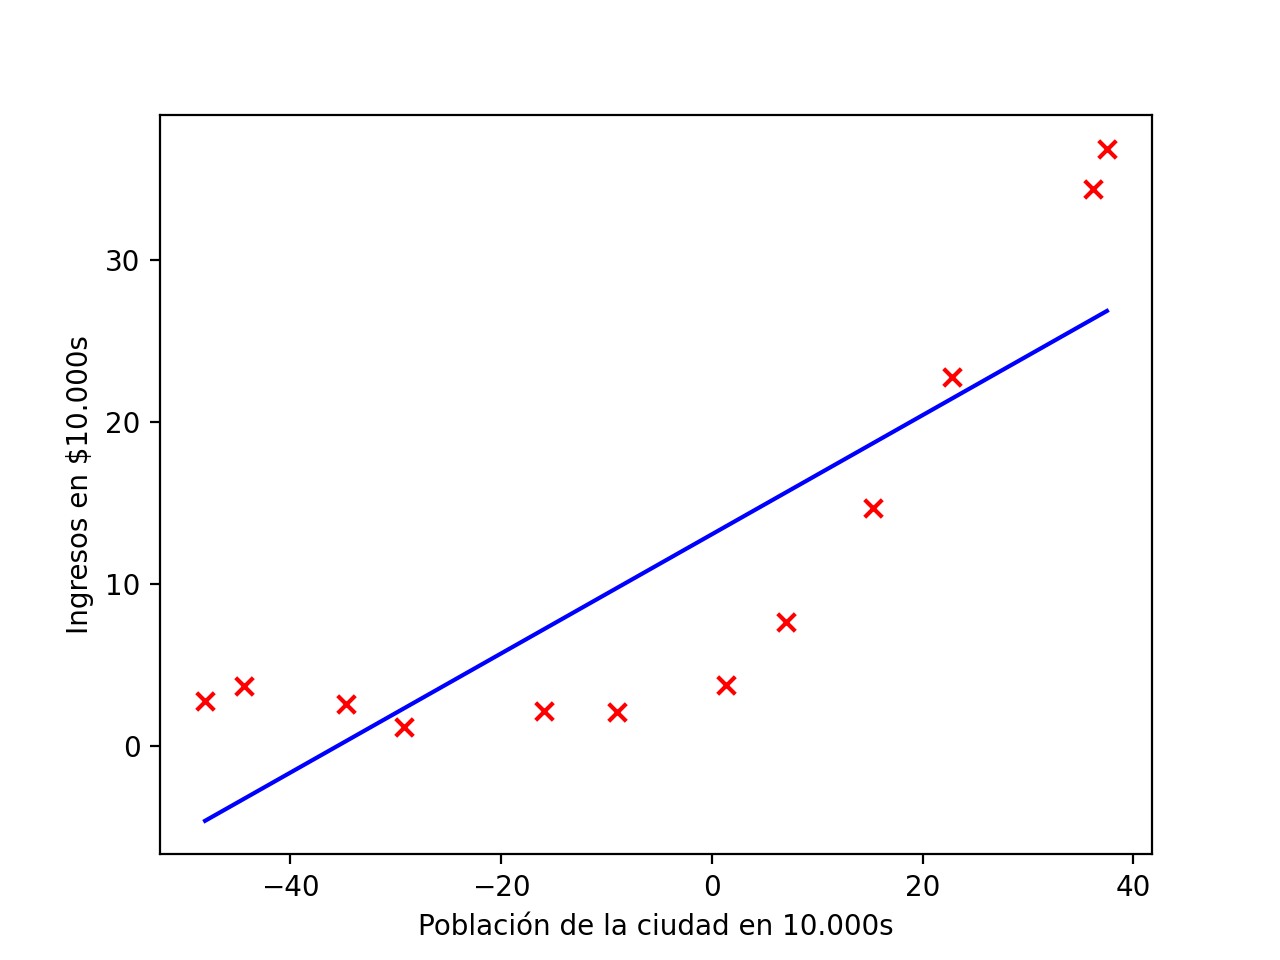
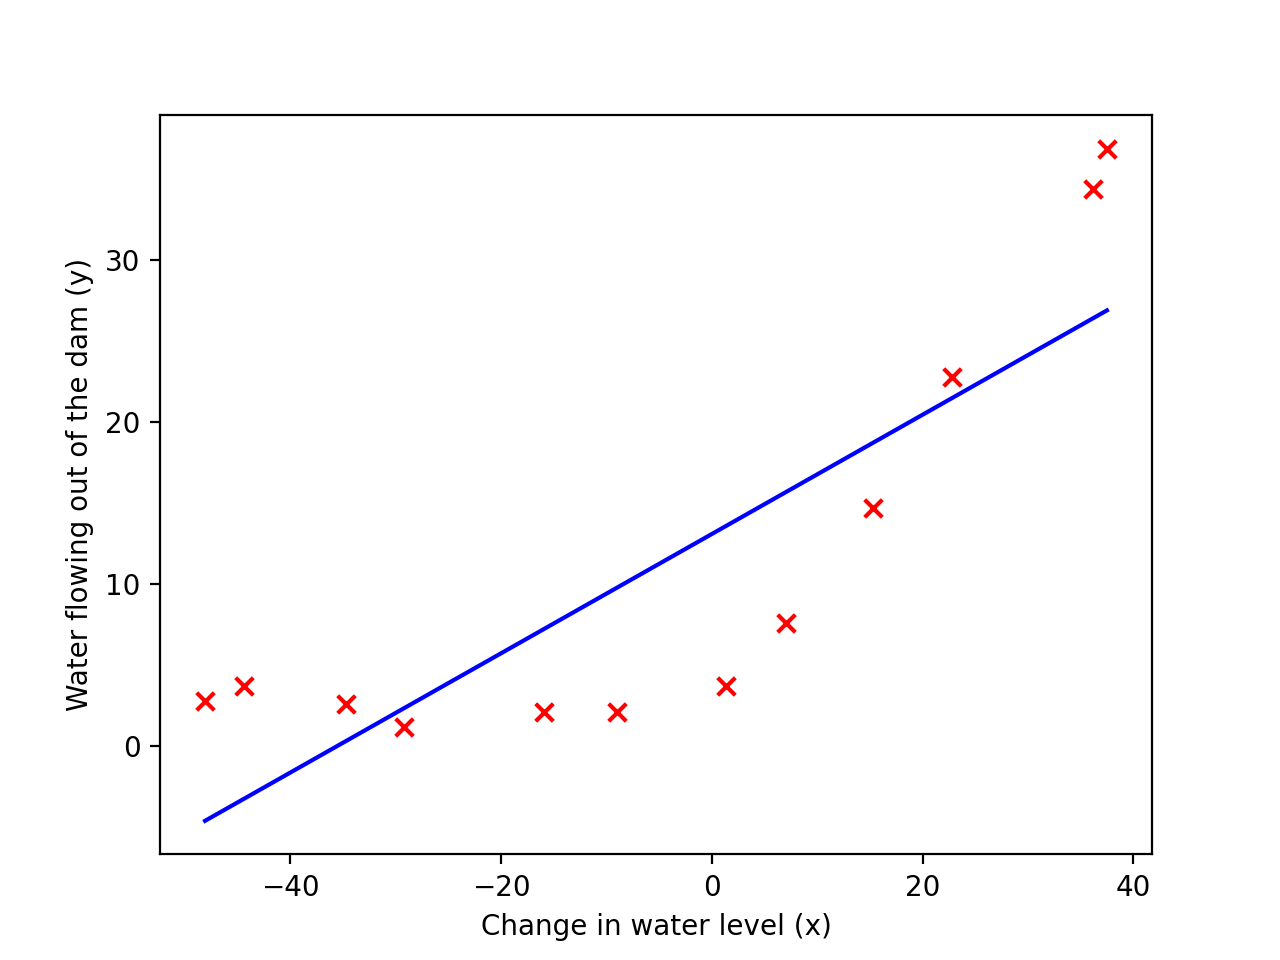
Pr 5

Changed region(s): [[0.3125, 0.9375, 0.6875, 1.0], [0.0312, 0.3438, 0.0938, 0.5625], [0.0312, 0.5625, 0.0938, 0.75]]

diff --git a/Práctica 5/Pr5M.py b/Práctica 5/Pr5M.py
@@ -20,6 +20,7 @@ def cost_reg(Theta, XX, Y, Landa):
     dif = np.sum((Theta.dot(XX.T) - Y)**2)
     cost = (1 / 2 * len(XX)) * dif 
     return cost
+
 def error(Theta,XX,y,landa):   
     H = np.dot(XX, Theta)
     aux = (H - y) ** 2
@@ -28,28 +29,23 @@ def error(Theta,XX,y,landa):
 
 def add_features(X, p):
     for i in range(2,p+1):
-       x1 = X[:,1]**i 
-       X = np.hstack((X, np.reshape(x1,(x1.shape[0],1))))
+        x1 = X[:,1]**i 
+        X = np.hstack((X, np.reshape(x1,(x1.shape[0],1))))
     return X
 
 def normalize(X):
-    X_norm = np.zeros_like(X)
-    X_norm[:,0] = X[:,0]
-    for i in range(1,X.shape[1]):
-        mu = np.mean(X[:,i])
-        sigma = np.std(X[:,i])
-        data = (X[:,i]-mu) / sigma
-        X_norm[:,i] = data
-    return X_norm, mu, sigma
+    Mu = np.mean(X[:,1:], axis=0)
+    Sigma = np.std(X[:,1:],axis=0)
+    X_norm = (X[:,1:] - Mu) / Sigma
+    X_norm = np.hstack((np.ones((len(X), 1)), X_norm))
+
+    return [X_norm, Mu, Sigma]
 
 def normalize_val_or_test(X,mu,sigma):
-    X_norm = np.zeros_like(X)
-    X_norm[:,0] = X[:,0]
-    for i in range(1,X.shape[1]):
-        data = (X[:,i]-mu) / sigma
-        X_norm[:,i] = data
-
+    X_norm = (X[:,1:] - mu) / sigma
+    X_norm = np.hstack((np.ones((len(X), 1)), X_norm))
     return X_norm
+
 def show_graph(X, Y, Theta, name='graph'):
 
     X_l = [np.amin(X), np.amax(X)]
@@ -63,24 +59,18 @@ def show_graph(X, Y, Theta, name='graph'):
     plt.savefig('Práctica 5/Recursos/{}.png'.format(name), dpi=200)
 
 
-def show_graph_normalized(X, Y, theta, mu , sigma, name = 'graph_normalized'):
+def show_graph_normalized(X, Y,X_norm,theta, name = 'graph_normalized'):
 
-    x_pts = np.linspace(-60, 40, 12)
-    y_pts = theta[0] * np.ones(12)
-    for i in range(1,9):
-        y_pts += theta[i] * (x_pts**i - mu[i-1]) / sigma[i-1]
-
+    Y_l = X_norm*theta
 
     plt.figure()
-    plt.plot(X[1], Y, 'rx', ms=8)
-    plt.plot(x_pts, y_pts, 'b--')
-    plt.xlim(-60,50)
-    plt.ylim(-10,60)
+    plt.scatter(X.T[1], Y, c='r', marker='x', s=40)
+    #plt.plot(X, Y_l, c='b')
     plt.xlabel('Change in water level (x)')
     plt.ylabel('Water flowing out of the dam (y)')
     plt.savefig('Práctica 5/Recursos/{}.png'.format(name), dpi=200)
 
-def show_learning_curve(Train, val,num_examples):
+def show_learning_curve(Train, val,num_examples, name = 'Learning curve'):
 
 
     plt.figure()
@@ -89,7 +79,7 @@ def show_learning_curve(Train, val,num_examples):
     plt.xlabel('Number of training examples')
     plt.ylabel('Error')
     plt.legend()
-    plt.savefig('Práctica 5/Recursos/{}.png'.format('Learning Curve'), dpi=200)
+    plt.savefig('Práctica 5/Recursos/{}.png'.format(name), dpi=200)
 
 def learning_curve(Theta, X, y, Xval, yval, landa):
 
@@ -98,8 +88,8 @@ def learning_curve(Theta, X, y, Xval, yval, landa):
     for i in range(0,len(X)):
         fmin = minimize(fun=error,x0=Theta,args=(X[0:i],y[0:i],landa ),method='TNC',jac=False) 
         theta = fmin['x']
-        train_error[i] = cost_reg(theta, X[:i],y[:i],landa)
-        val_error[i] = cost_reg(theta, Xval,yval,landa) 
+        train_error[i] = error(theta, X[:i],y[:i],landa)
+        val_error[i] = error(theta, Xval,yval,landa) 
 
     return train_error, val_error
 
@@ -117,11 +107,13 @@ def main():
 
     Theta = np.ones(2)
     Landa = 1
-    #fmin = minimize(fun=cost_and_gradient,x0=Theta,args=(X,y,Landa),method='TNC',jac=True)
-    #show_graph(X,y,fmin['x'])
+    fmin = minimize(fun=cost_and_gradient,x0=Theta,args=(X,y,Landa),method='TNC',jac=True)
+    show_graph(X,y,fmin['x'])
 
-    #error_train, error_val = learning_curve(Theta,X,y,Xval,yval,0)
-    #show_learning_curve(error_train,error_val, len(X))
+    error_train, error_val = learning_curve(Theta,X,y,Xval,yval,0)
+    show_learning_curve(error_train,error_val, len(X))
+
+    
 
     X_featurized = add_features(X,8)
     Xval_featurized = add_features(Xval,8)
@@ -132,18 +124,21 @@ def main():
     Xtest_normalized = normalize_val_or_test(Xtest_featurized,mu,sigma)
     Theta_featurized= np.ones(9)
 
-    #fmin_norm =  minimize(fun=cost_and_gradient,x0=Theta_featurized,args=(X_normalized,y,0),method='TNC',jac=True)
+    # TODO 
+    fmin_norm =  minimize(fun=cost_and_gradient,x0=Theta_featurized,args=(X_normalized,y,0),method='TNC',jac=True)
+    show_graph_normalized(X,y,X_normalized,fmin_norm['x'],name='Graph normalized')
 
-    #show_graph_normalized(X,y, fmin_norm['x'],mu, sigma)
-
+    error_train, error_val = learning_curve(Theta_featurized,X_normalized,y,Xval_normalized,yval,0)
+    show_learning_curve(error_train,error_val, len(X), name = 'Learning curve for polynomial hypotesis')
+    # TODO lo que esta entre los todos no va del todo
     Landas = [0, 0.001, 0.003, 0.01, 0.03, 0.1, 0.3, 1, 3, 10]
     errors_train = []
     errors_val = []
     for landa in Landas:
         res = minimize(fun=cost_and_gradient,x0=Theta_featurized,args=(X_normalized,y,landa),method='TNC', jac=True);
         theta = res['x']
-        errors_train.append(cost_reg(theta, X_normalized, y, landa))
-        errors_val.append(cost_reg(theta, Xval_normalized, yval, landa))
+        errors_train.append(error(theta, X_normalized, y, landa))
+        errors_val.append(error(theta, Xval_normalized, yval, landa))
     
     plt.figure()
     plt.plot(Landas, errors_train,'b', label='Train')
